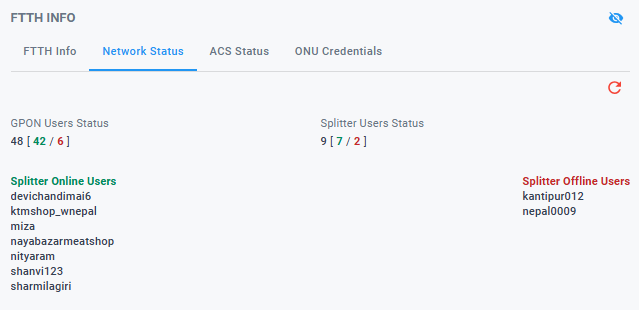
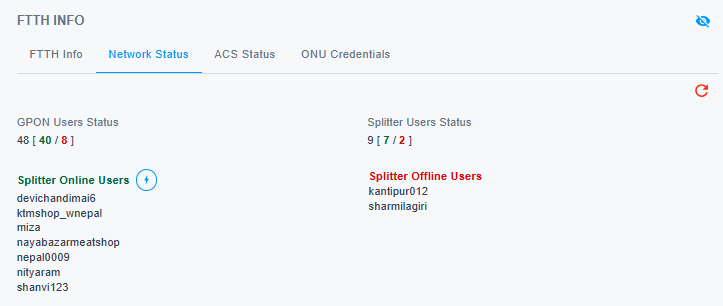
NWCC Details Acc Diagnostic and Mega Boost added in the customer view

diff --git a/docs/feature-navigation-bar.md b/docs/feature-navigation-bar.md
@@ -66,6 +66,16 @@ This is the section where we find the total number of users that are connected t
 <i style="font-size: 14px; color: grey;">Fig. Network Status</i>
 </div><br>
 
+#### Check Power Level
+
+Power Level of the client connected through that splitter can also be viewed by clicking⚡button. `Low power level will be displayed in red color.`
+
+![Check Power Level](img/check-power-level.gif){ style="display: block; margin: auto;" }
+
+<div align="center">
+<i style="font-size: 14px; color: grey;">Fig. Check Power Level</i>
+</div><br>
+
 !!! note
     Clicking on the username will open a new tab dedicated to that user, providing quick access to their details and activities.
 
@@ -78,6 +88,49 @@ This information enables the identification of connectivity issues between ONU a
 
 <div align="center">
 <i style="font-size: 14px; color: grey;">Fig. ACS Status</i>
+</div><br>
+
+### MEGA BOOST
+
+This section allows you to validate if the client has taken 
+the Mega Boost subscription or not.
+
+![Mega Boost](img/mega-boost.png){ style="display: block; margin: auto;" }
+
+<div align="center">
+<i style="font-size: 14px; color: grey;">Fig. Mega Boost</i>
+</div><br>
+
+### Account Diagnostic
+
+This section allows you to run account diagnostic. A side bar will appear as soon as the account diagnostic starts runninng. 
+
+![Account Diagnostic](img/account-diagnostic.png){ style="display: block; margin: auto;" }
+
+<div align="center">
+<i style="font-size: 14px; color: grey;">Fig. Account Diagnostic</i>
+</div><br>
+
+![Account Diagnostic Sidebar](img/account-diagnostic-sidebar.png){ style="display: block; margin: auto;" }
+<div align="center">
+<i style="font-size: 14px; color: grey;">Fig. Account Diagnostic Sidebar</i>
+</div><br>
+
+!!! note
+    Location permission of the browser should be provided for the diagnostic to run.
+
+### NWCC Details
+
+This feature allows you to view the informatnion regarding the total number of beacons that are mapped to the client's username and check the status of the ONU in the NWCC portal. Also, by clicking on `View on NWCC Portal` you will be redirected to the NWCC Portal itself.
+
+![NWCC Details Beacon](img/nwcc-details-beacon.png){ style="display: block; margin: auto;" }
+<div align="center">
+<i style="font-size: 14px; color: grey;">Fig. NWCC Details Beacon</i>
+</div><br>
+
+![NWCC Details ONU](img/nwcc-details-onu.png){ style="display: block; margin: auto;" }
+<div align="center">
+<i style="font-size: 14px; color: grey;">Fig. NWCC Details ONU</i>
 </div><br>
 
 ## Logs

diff --git a/docs/ticket-view.md b/docs/ticket-view.md
@@ -1,0 +1,13 @@
+# Ticket View
+
+The Ticket View provides a comprehensive view of a single support ticket. It displays all relevant details, including the client's information, the problem description, ticket status, and any associated notes or updates. This dashboard allows you to track the ticket’s progress, view its history, and manage communications with the client. You can also update the ticket status, assign it to team members, and schedule field visits.
+
+![Ticket View](img/ticket-view.png){ style="display: block; margin: auto;" }
+<div align="center">
+<i style="font-size: 14px; color: grey;">Fig. Ticket View</i>
+</div><br>
+
+This dashboard consists of different components. Some of them are listed below:
+
+1. [Customer Details.](customer-details.md) (*Exact to Customer View* )
+1. 
